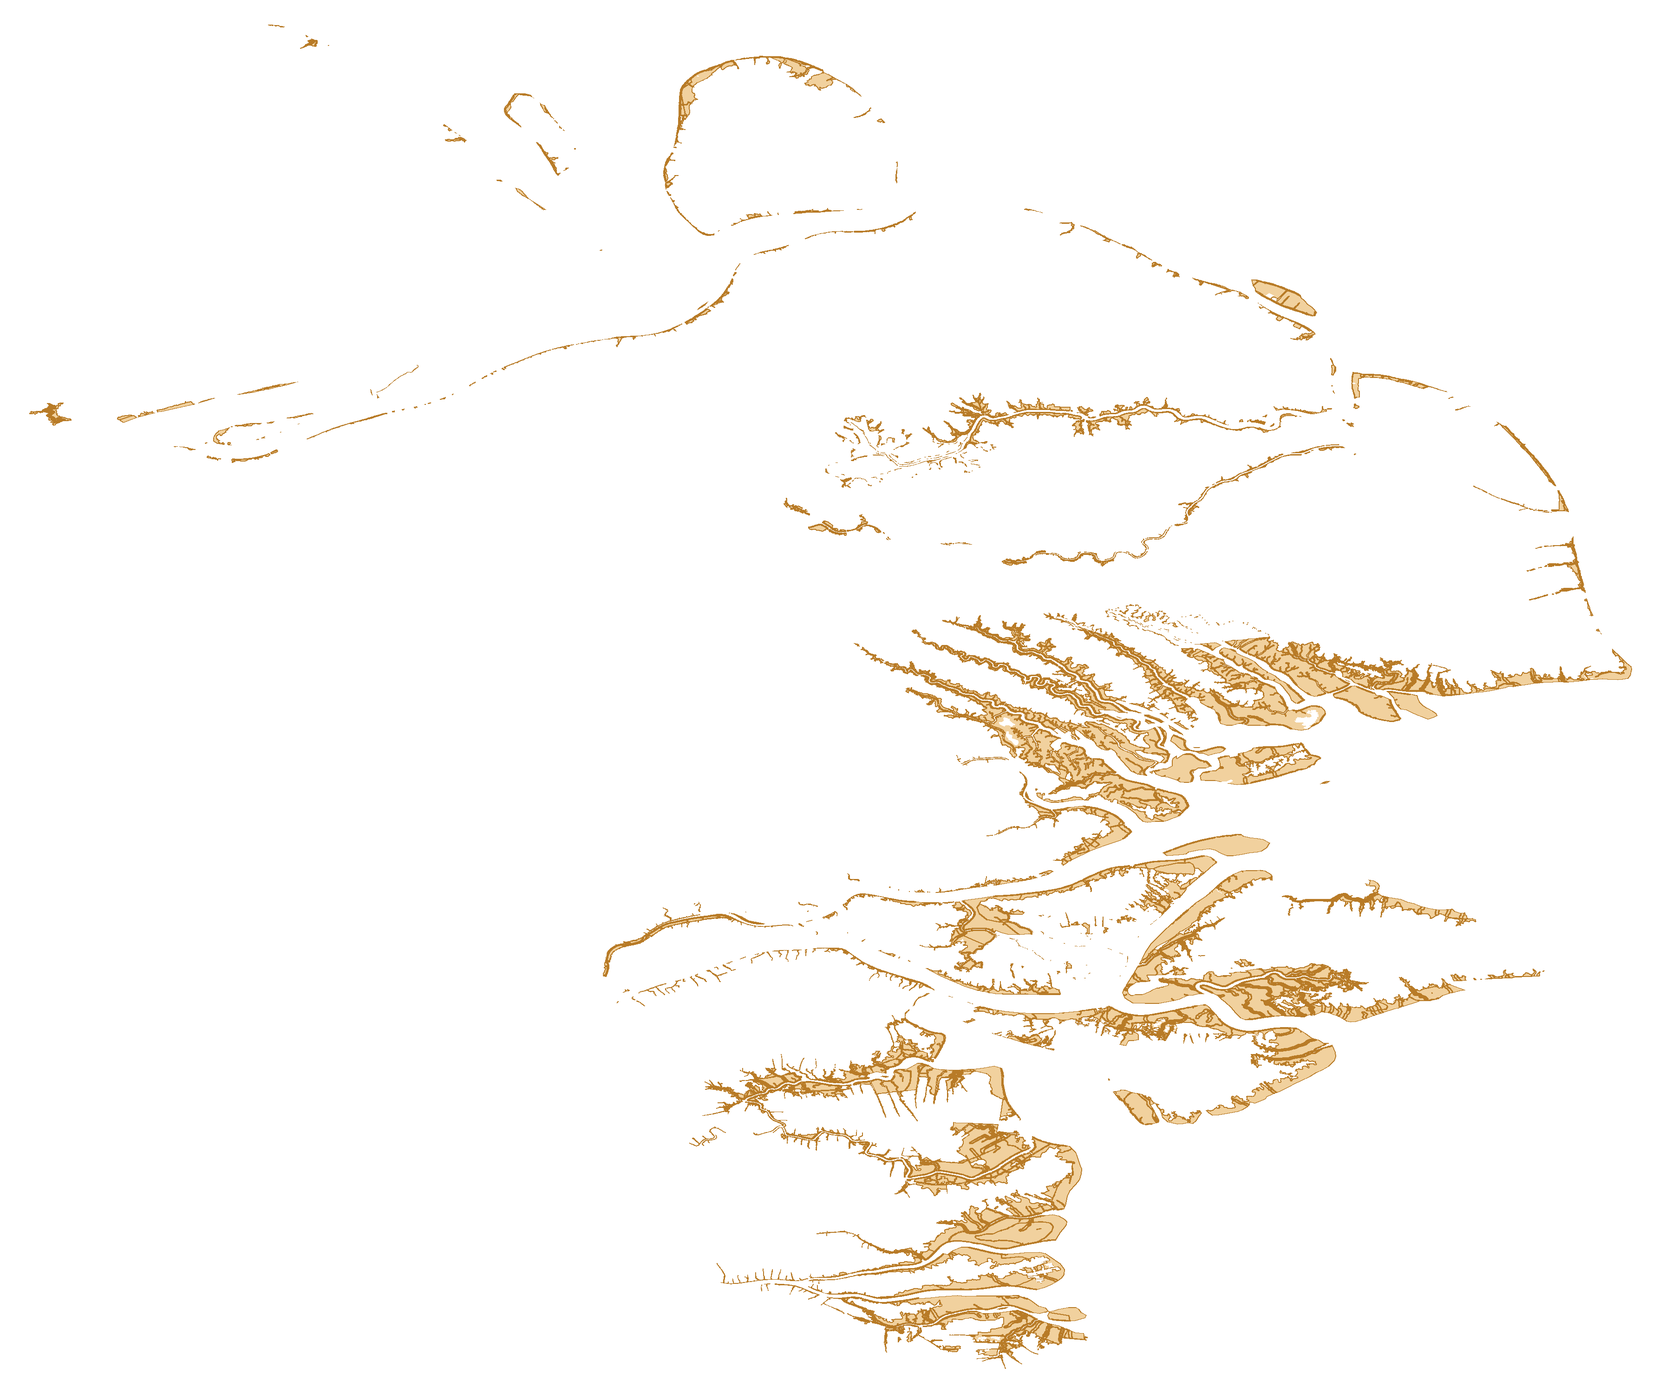
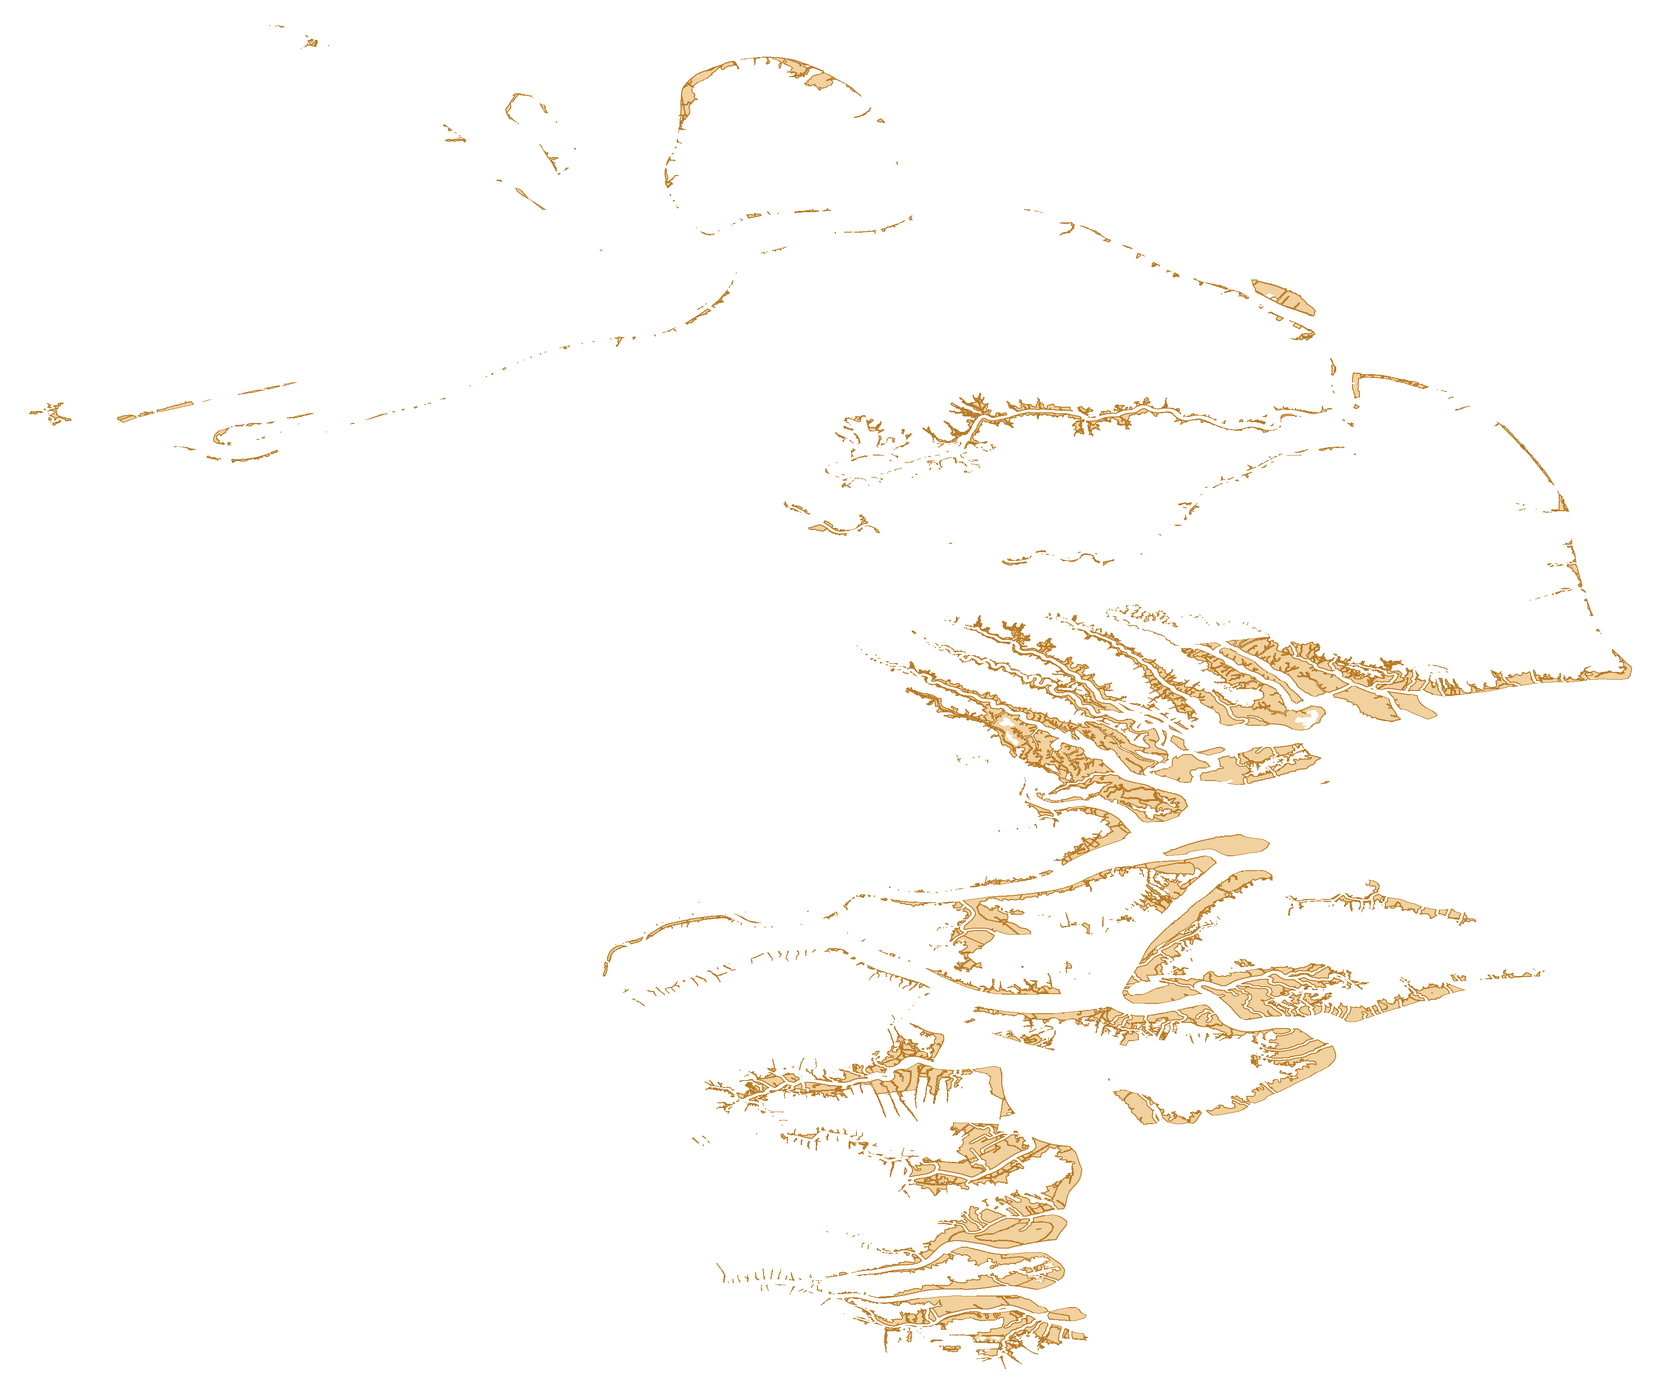
Include review scenario in indicative protection

diff --git a/mangrove-landscape.html b/mangrove-landscape.html
@@ -50,10 +50,10 @@
       <div class="overview-grid">
         <article><span>Lindung sumber</span><strong id="overview-source-lindung">—</strong><small id="overview-source-lindung-percent">klasifikasi pada data RPPEM</small></article>
         <article><span>Budidaya sumber</span><strong id="overview-source-budidaya">—</strong><small id="overview-source-budidaya-percent">klasifikasi pada data RPPEM</small></article>
-        <article class="overview-indicative"><span>Lindung indikatif</span><strong id="overview-indicative-lindung">—</strong><small id="overview-indicative-lindung-percent">hasil TRUE analisis YG</small></article>
-        <article class="overview-indicative"><span>Budidaya indikatif</span><strong id="overview-indicative-budidaya">—</strong><small id="overview-indicative-budidaya-percent">baseline budidaya yang tidak beririsan TRUE</small></article>
+        <article class="overview-indicative"><span>Lindung indikatif</span><strong id="overview-indicative-lindung">—</strong><small id="overview-indicative-lindung-percent">TRUE + skenario REVIEW</small></article>
+        <article class="overview-indicative"><span>Budidaya indikatif</span><strong id="overview-indicative-budidaya">—</strong><small id="overview-indicative-budidaya-percent">sisa baseline budidaya dalam skenario</small></article>
       </div>
-      <div class="boundary-assurance riau-definition"><strong>Ringkasan Riau.</strong><p>Lindung indikatif adalah area dengan hasil TRUE. Budidaya indikatif adalah bagian baseline budidaya yang tidak beririsan dengan hasil TRUE. Area yang belum terklasifikasi tidak dipaksakan masuk ke salah satu fungsi. Angka ini merupakan hasil analisis, bukan penetapan fungsi.</p></div>
+      <div class="boundary-assurance riau-definition"><strong>Ringkasan Riau.</strong><p>Lindung indikatif mencakup hasil TRUE dan skenario REVIEW sehingga memperlihatkan cakupan hingga sekitar 30%. Budidaya indikatif adalah sisa baseline budidaya setelah TRUE dan skenario REVIEW. REVIEW tetap memerlukan verifikasi; angka ini merupakan skenario analitis, bukan penetapan fungsi.</p></div>
     </section>
 
     <section class="page-section klm-section" id="klm">
@@ -64,11 +64,11 @@
       </div>
       <div class="klm-cluster-heading"><div><p class="eyebrow">RINGKASAN PER KLM</p><h3>Fungsi sumber dan hasil indikatif</h3></div><p>Setiap kartu memperlihatkan luas mangrove, fungsi lindung dan budidaya pada data sumber, serta fungsi lindung dan budidaya indikatif hasil analisis.</p></div>
       <div class="klm-cards" id="klm-cards" aria-live="polite"><article class="klm-loading">Memuat ringkasan per KLM…</article></div>
-      <div class="boundary-assurance"><strong>Batas KLM tidak diubah.</strong><p>Peta menampilkan dua kelompok hasil: indikasi fungsi lindung dan indikasi fungsi budidaya. Perhitungan menggunakan geometri sumber secara penuh; raster hanya digunakan untuk tampilan web. <span id="klm-reconciliation"></span></p></div>
+      <div class="boundary-assurance"><strong>Batas KLM tidak diubah.</strong><p>Peta menampilkan dua kelompok skenario: fungsi lindung indikatif yang mencakup TRUE + REVIEW dan fungsi budidaya indikatif yang tersisa. Perhitungan menggunakan geometri sumber secara penuh; raster hanya digunakan untuk tampilan web. <span id="klm-reconciliation"></span></p></div>
     </section>
 
     <section class="page-section function-section" id="fungsi">
-      <div class="section-heading"><div><p class="eyebrow">DASAR ANALISIS</p><h2>Kriteria fungsi lindung indikatif</h2></div><p>Delapan kriteria diterjemahkan menjadi aturan spasial yang dapat diperiksa kembali. Hasil TRUE menjadi dasar luas lindung indikatif yang ditampilkan pada total Riau, kartu KLM, dan tabel wilayah.</p></div>
+      <div class="section-heading"><div><p class="eyebrow">DASAR ANALISIS</p><h2>Kriteria fungsi lindung indikatif</h2></div><p>Delapan kriteria diterjemahkan menjadi aturan spasial yang dapat diperiksa kembali. Tampilan lindung indikatif menggabungkan hasil TRUE dan skenario REVIEW; keduanya tetap dapat dibedakan dalam data analitis.</p></div>
       <div class="reading-rule"><strong>Cara membaca hasil:</strong><span><b>TRUE</b> memenuhi sedikitnya satu kriteria berdasarkan bukti tersedia</span><span><b>REVIEW</b> memerlukan verifikasi tambahan</span><span><b>UNKNOWN</b> data belum memadai</span><span><b>FALSE</b> hanya digunakan bila bukti cukup</span></div>
 
       <div class="criteria-heading"><h3>Delapan kriteria fungsi lindung</h3><p>Kode FL adalah kode internal YG untuk menerjemahkan kriteria regulasi menjadi aturan spasial yang dapat diaudit.</p></div>
@@ -87,7 +87,7 @@
     <section class="page-section" id="wilayah">
       <div class="section-heading"><div><p class="eyebrow">RINGKASAN PER KABUPATEN/KOTA</p><h2>Fungsi sumber dan hasil indikatif per wilayah</h2></div><p>Tabel menggunakan seluruh mangrove referensi Riau pada setiap kabupaten/kota, tidak dibatasi oleh gabungan tiga KLM.</p></div>
       <div class="table-wrap transition-table"><table><thead><tr><th>Wilayah</th><th>Mangrove referensi</th><th>Lindung sumber</th><th>Lindung indikatif</th><th>Budidaya sumber</th><th>Budidaya indikatif</th></tr></thead><tbody id="regency-transition-body"><tr><td colspan="6">Memuat ringkasan kabupaten/kota…</td></tr></tbody></table></div>
-      <p class="transition-caveat">Budidaya indikatif adalah bagian baseline budidaya yang tidak beririsan dengan hasil lindung TRUE. Angka ini bukan penetapan fungsi, tidak mengubah izin atau status kawasan, dan tetap harus dibaca bersama data sumber serta keterbatasan bukti.</p>
+      <p class="transition-caveat">Lindung indikatif mencakup TRUE + skenario REVIEW. Budidaya indikatif adalah sisa baseline budidaya setelah kedua kelompok tersebut. REVIEW tetap memerlukan verifikasi. Angka ini bukan penetapan fungsi dan tidak mengubah izin atau status kawasan.</p>
     </section>
 
     <section class="page-section" id="modul">
@@ -102,14 +102,14 @@
 
     <section class="page-section method-section" id="metode">
       <div class="section-heading"><div><p class="eyebrow">METODE &amp; AKUNTABILITAS</p><h2>Bagaimana angka dihitung</h2></div><p>Mesin menggunakan aturan deterministik empat status, bukan skor, bobot, voting, atau probabilitas.</p></div>
-      <div class="method-flow"><article><b>1</b><strong>Bangun unit analisis</strong><p>Poligon mangrove PMN 2025 dipotong dengan geometri bukti dan batas wilayah.</p></article><article><b>2</b><strong>Uji FL01–FL08</strong><p>Setiap kriteria dinilai TRUE, REVIEW, UNKNOWN, atau FALSE berdasarkan bukti.</p></article><article><b>3</b><strong>Gabungkan geometri</strong><p>Luas fungsi dihitung dari gabungan geometri agar tumpang tindih antarkriteria tidak dijumlahkan ganda.</p></article><article><b>4</b><strong>Kelompokkan hasil</strong><p>TRUE menjadi dasar lindung indikatif. REVIEW dan UNKNOWN tetap ditandai untuk verifikasi dan tidak dihitung sebagai lindung TRUE.</p></article></div>
+      <div class="method-flow"><article><b>1</b><strong>Bangun unit analisis</strong><p>Poligon mangrove PMN 2025 dipotong dengan geometri bukti dan batas wilayah.</p></article><article><b>2</b><strong>Uji FL01–FL08</strong><p>Setiap kriteria dinilai TRUE, REVIEW, UNKNOWN, atau FALSE berdasarkan bukti.</p></article><article><b>3</b><strong>Gabungkan geometri</strong><p>Luas fungsi dihitung dari gabungan geometri agar tumpang tindih antarkriteria tidak dijumlahkan ganda.</p></article><article><b>4</b><strong>Bangun skenario publik</strong><p>Lindung indikatif menggabungkan TRUE dan REVIEW. Status REVIEW tetap dipertahankan sebagai penanda bahwa verifikasi tambahan masih diperlukan.</p></article></div>
       <div class="legal-grid"><article><h3>Acuan regulasi</h3><p><a href="https://peraturan.bpk.go.id/Details/320198" target="_blank" rel="noopener"><strong>PP Nomor 27 Tahun 2025</strong></a> tentang Perlindungan dan Pengelolaan Ekosistem Mangrove menjadi kerangka utama fungsi dan pengelolaan ekosistem mangrove.</p><p><a href="https://peraturan.bpk.go.id/Details/353164/permen-lhbplh-no-8-tahun-2026" target="_blank" rel="noopener"><strong>Permen LH/BPLH Nomor 8 Tahun 2026</strong></a> mengatur tata cara penetapan/perubahan fungsi, rencana dasar KLM, dan RPPEM. Kode FL01–FL08 adalah terjemahan operasional internal YG, bukan kode resmi peraturan.</p></article><article><h3>Batas publikasi v1</h3><ul><li>Geometri unit rinci belum dibuka sebagai data resmi.</li><li>FL01 memakai input model pasut tanpa kalibrasi stasiun lokal dan garis datum legal.</li><li>FL02 masih mencakup centerline dan pencocokan nama sungai.</li><li>Persentase adalah pangsa luas spasial, bukan probabilitas atau kepastian hukum.</li></ul></article></div>
       <div class="public-note"><strong>Catatan penggunaan:</strong><p>Hasil ini merupakan analisis spasial indikatif Yayasan Gambut berdasarkan data dan bukti yang tersedia. Istilah “lindung indikatif” dan “budidaya indikatif” digunakan untuk menyajikan hasil analisis, bukan penetapan atau perubahan fungsi ekosistem mangrove. Hasil tidak mengubah batas, izin, atau status kawasan dan memerlukan verifikasi melalui proses resmi serta pemeriksaan lapangan.</p></div>
     </section>
   </main>
   <footer><div><strong>YG GeoPortal</strong><p>Kawasan Lanskap Mangrove Riau · ringkasan publik v1</p></div><a href="coastal-monitoring.html">Kembali ke Pesisir &amp; Mangrove</a></footer>
   <script src="https://unpkg.com/leaflet@1.9.4/dist/leaflet.js" crossorigin=""></script>
-  <script src="js/mangrove-landscape.js?v=20260827-riauoverview1"></script>
+  <script src="js/mangrove-landscape.js?v=20260827-reviewscenario1"></script>
   <script src="js/navigation-v2.js?v=20260807-mobile-menu-fix2"></script>
 </body>
 </html>

diff --git a/js/mangrove-landscape.js b/js/mangrove-landscape.js
@@ -23,7 +23,7 @@
   }
 
   function renderCards(klms){
-    cards.innerHTML=klms.map(klm=>`<button type="button" class="klm-card" data-klm="${safe(klm.code)}" style="--klm-color:${safe(klm.color)}"><header><div><small>KLM ${safe(klm.code)}</small><strong>${safe(klm.name.replace(/^KLM\s+/i,''))}</strong></div><b>Fokus peta</b></header><div class="klm-card-stats"><span class="total"><strong>${fmt(klm.mangrove_area_ha)} ha</strong>Mangrove referensi</span><span><strong>${fmt(klm.initial_lindung_ha)} ha</strong>Lindung sumber · ${fmt(klm.initial_percent)}%</span><span><strong>${fmt(klm.validated_true_ha)} ha</strong>Lindung indikatif · ${fmt(klm.validated_true_percent)}%</span><span><strong>${fmt(klm.initial_budidaya_ha)} ha</strong>Budidaya sumber · ${fmt(klm.initial_budidaya_percent)}%</span><span><strong>${fmt(klm.indicative_budidaya_ha)} ha</strong>Budidaya indikatif · ${fmt(klm.indicative_budidaya_percent)}%</span></div><div class="klm-bar"><i style="width:${Math.min(100,klm.validated_true_percent)}%"></i></div></button>`).join('');
+    cards.innerHTML=klms.map(klm=>`<button type="button" class="klm-card" data-klm="${safe(klm.code)}" style="--klm-color:${safe(klm.color)}"><header><div><small>KLM ${safe(klm.code)}</small><strong>${safe(klm.name.replace(/^KLM\s+/i,''))}</strong></div><b>Fokus peta</b></header><div class="klm-card-stats"><span class="total"><strong>${fmt(klm.mangrove_area_ha)} ha</strong>Mangrove referensi</span><span><strong>${fmt(klm.initial_lindung_ha)} ha</strong>Lindung sumber · ${fmt(klm.initial_percent)}%</span><span><strong>${fmt(klm.indicative_lindung_ha)} ha</strong>Lindung indikatif · ${fmt(klm.indicative_lindung_percent)}%</span><span><strong>${fmt(klm.initial_budidaya_ha)} ha</strong>Budidaya sumber · ${fmt(klm.initial_budidaya_percent)}%</span><span><strong>${fmt(klm.indicative_budidaya_ha)} ha</strong>Budidaya indikatif · ${fmt(klm.indicative_budidaya_percent)}%</span></div><div class="klm-bar"><i style="width:${Math.min(100,klm.indicative_lindung_percent)}%"></i></div></button>`).join('');
     cards.addEventListener('click',event=>{const button=event.target.closest('[data-klm]');if(!button)return;const klm=klms.find(item=>item.code===button.dataset.klm);if(klm)focusKlm(klm)});
   }
 
@@ -37,20 +37,20 @@
     document.getElementById('overview-source-lindung-percent').textContent=`${fmt(riau.initial_percent)}% dari mangrove referensi`;
     document.getElementById('overview-source-budidaya').textContent=`${fmt(riau.initial_budidaya_ha)} ha`;
     document.getElementById('overview-source-budidaya-percent').textContent=`${fmt(riau.initial_budidaya_percent)}% dari mangrove referensi`;
-    document.getElementById('overview-indicative-lindung').textContent=`${fmt(riau.validated_true_ha)} ha`;
-    document.getElementById('overview-indicative-lindung-percent').textContent=`${fmt(riau.validated_true_percent)}% · hasil TRUE`;
+    document.getElementById('overview-indicative-lindung').textContent=`${fmt(riau.indicative_lindung_ha)} ha`;
+    document.getElementById('overview-indicative-lindung-percent').textContent=`${fmt(riau.indicative_lindung_percent)}% · TRUE + skenario REVIEW`;
     document.getElementById('overview-indicative-budidaya').textContent=`${fmt(riau.indicative_budidaya_ha)} ha`;
     document.getElementById('overview-indicative-budidaya-percent').textContent=`${fmt(riau.indicative_budidaya_percent)}% · hasil indikatif`;
   }
 
   function renderRegencies(regencies){
-    regencyBody.innerHTML=regencies.map(row=>`<tr><th>${safe(row.name)}</th><td>${fmt(row.mangrove_area_ha)} ha</td><td>${fmt(row.initial_lindung_ha)} ha<br><small>${fmt(row.initial_percent)}%</small></td><td class="analysis-value">${fmt(row.validated_true_ha)} ha<br><small>${fmt(row.validated_true_percent)}%</small></td><td>${fmt(row.initial_budidaya_ha)} ha<br><small>${fmt(row.initial_budidaya_percent)}%</small></td><td class="analysis-value">${fmt(row.indicative_budidaya_ha)} ha<br><small>${fmt(row.indicative_budidaya_percent)}%</small></td></tr>`).join('');
+    regencyBody.innerHTML=regencies.map(row=>`<tr><th>${safe(row.name)}</th><td>${fmt(row.mangrove_area_ha)} ha</td><td>${fmt(row.initial_lindung_ha)} ha<br><small>${fmt(row.initial_percent)}%</small></td><td class="analysis-value">${fmt(row.indicative_lindung_ha)} ha<br><small>${fmt(row.indicative_lindung_percent)}%</small></td><td>${fmt(row.initial_budidaya_ha)} ha<br><small>${fmt(row.initial_budidaya_percent)}%</small></td><td class="analysis-value">${fmt(row.indicative_budidaya_ha)} ha<br><small>${fmt(row.indicative_budidaya_percent)}%</small></td></tr>`).join('');
   }
 
   async function init(){
     if(!window.L){status.textContent='Peta belum dapat dimuat';return}
     try{
-      const response=await fetch('data/mangrove-klm-summary.json?v=20260827-publiccomparison1',{cache:'no-store'});
+      const response=await fetch('data/mangrove-klm-summary.json?v=20260827-reviewscenario1',{cache:'no-store'});
       if(!response.ok)throw new Error('Ringkasan KLM tidak tersedia');
       state.data=await response.json();
       state.map=L.map('klm-map',{zoomControl:true,minZoom:6,maxZoom:18});
@@ -66,7 +66,7 @@
       const bounds=state.data.image.bounds;
       const overlays={};
       state.data.function_layers.forEach(item=>{
-        const images=(item.images||[{path:item.path,bounds}]).map(image=>L.imageOverlay(`${image.path}?v=20260827-klmclip1`,image.bounds||bounds,{opacity:1,interactive:false}));
+        const images=(item.images||[{path:item.path,bounds}]).map(image=>L.imageOverlay(`${image.path}?v=20260827-reviewscenario1`,image.bounds||bounds,{opacity:1,interactive:false}));
         const layer=L.layerGroup(images);
         overlays[item.label]=layer;
         if(item.visible)layer.addTo(state.map);

diff --git a/scripts/build_mangrove_klm_public.py b/scripts/build_mangrove_klm_public.py
@@ -139,7 +139,8 @@ def public_metrics(values):
     initial_unclassified = max(0.0, total - values["initial_lindung_ha"] - values["initial_budidaya_ha"])
     budidaya_to_lindung = values["budidaya_reduction_true_ha"]
     additional_from_unclassified = max(0.0, values["additional_true_beyond_initial_ha"] - budidaya_to_lindung)
-    indicative_unclassified = max(0.0, initial_unclassified - additional_from_unclassified)
+    review_from_unclassified = max(0.0, values["review_beyond_initial_ha"] - values["budidaya_review_exposure_ha"])
+    indicative_unclassified = max(0.0, initial_unclassified - additional_from_unclassified - review_from_unclassified)
     pct = lambda number: round(number / total * 100, 6) if total else 0
     return {
         "mangrove_area_ha": round(total, 6),
@@ -157,14 +158,16 @@ def public_metrics(values):
         "review_beyond_initial_ha": round(values["review_beyond_initial_ha"], 6),
         "true_plus_review_ha": round(true_plus_review, 6),
         "true_plus_review_percent": pct(true_plus_review),
+        "indicative_lindung_ha": round(true_plus_review, 6),
+        "indicative_lindung_percent": pct(true_plus_review),
         "unresolved_ha": round(values["unresolved_ha"], 6),
         "initial_budidaya_ha": round(values["initial_budidaya_ha"], 6),
         "initial_budidaya_percent": pct(values["initial_budidaya_ha"]),
         "budidaya_reduction_true_ha": round(values["budidaya_reduction_true_ha"], 6),
         "budidaya_reduction_true_percent_of_initial": round(values["budidaya_reduction_true_ha"] / values["initial_budidaya_ha"] * 100, 6) if values["initial_budidaya_ha"] else 0,
         "budidaya_remaining_after_true_ha": round(budidaya_remaining, 6),
-        "indicative_budidaya_ha": round(budidaya_remaining, 6),
-        "indicative_budidaya_percent": pct(budidaya_remaining),
+        "indicative_budidaya_ha": round(budidaya_scenario_remaining, 6),
+        "indicative_budidaya_percent": pct(budidaya_scenario_remaining),
         "budidaya_review_exposure_ha": round(values["budidaya_review_exposure_ha"], 6),
         "budidaya_remaining_true_plus_review_scenario_ha": round(budidaya_scenario_remaining, 6),
         "initial_unclassified_ha": round(initial_unclassified, 6),
@@ -414,7 +417,7 @@ def main():
             add_metrics(klm_summaries[code], overlap_area, properties, 0.0)
             klm_counts[code].add(properties.get("unit_id"))
             scope_parts.append((overlap, overlap_area))
-            if properties.get("scenario_state") == "INDICATIVE_PROTECTION_TRUE":
+            if properties.get("scenario_state") in {"INDICATIVE_PROTECTION_TRUE", "REVIEW_PROTECTION_SCENARIO"}:
                 analysis_lindung_parts_by_klm[code].append(overlap)
         if scope_parts:
             inside_geometry = scope_parts[0][0] if len(scope_parts) == 1 else polygonal(unary_union([item[0] for item in scope_parts]))
@@ -468,7 +471,7 @@ def main():
                     continue
                 scope_overlap_parts.append((klm_overlap_geometry, klm_overlap_area))
                 add_budidaya_metrics(klm_summaries[klm["code"]], klm_overlap_area, unit_properties)
-                if unit_properties.get("scenario_state") != "INDICATIVE_PROTECTION_TRUE":
+                if unit_properties.get("scenario_state") not in {"INDICATIVE_PROTECTION_TRUE", "REVIEW_PROTECTION_SCENARIO"}:
                     analysis_budidaya_parts_by_klm[klm["code"]].append(klm_overlap_geometry)
             if not scope_overlap_parts:
                 continue
@@ -537,8 +540,8 @@ def main():
             "images": boundary_images,
         },
         "function_layers": [
-            {"id": "analysis_lindung", "label": "Indikasi fungsi lindung — TRUE", "images": function_images["analysis_lindung"], "color": "#19805a", "visible": True},
-            {"id": "analysis_budidaya", "label": "Indikasi fungsi budidaya", "images": function_images["analysis_budidaya"], "color": "#e09723", "visible": True},
+            {"id": "analysis_lindung", "label": "Indikasi fungsi lindung — TRUE + skenario REVIEW", "images": function_images["analysis_lindung"], "color": "#19805a", "visible": True},
+            {"id": "analysis_budidaya", "label": "Indikasi fungsi budidaya — sisa skenario", "images": function_images["analysis_budidaya"], "color": "#e09723", "visible": True},
         ],
         "statewide": {**statewide_metrics, "unit_count": len(parsed_units), "regency_count": len(regency_names)},
         "totals": {**scoped_metrics,
